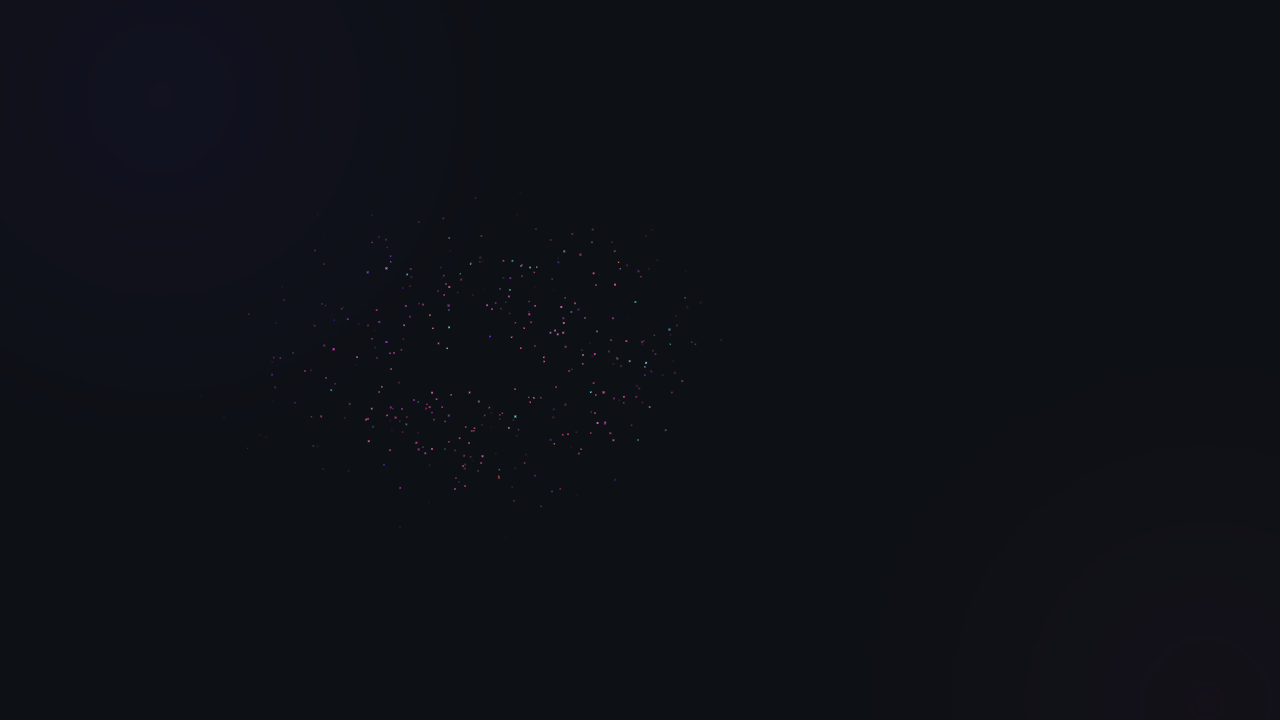
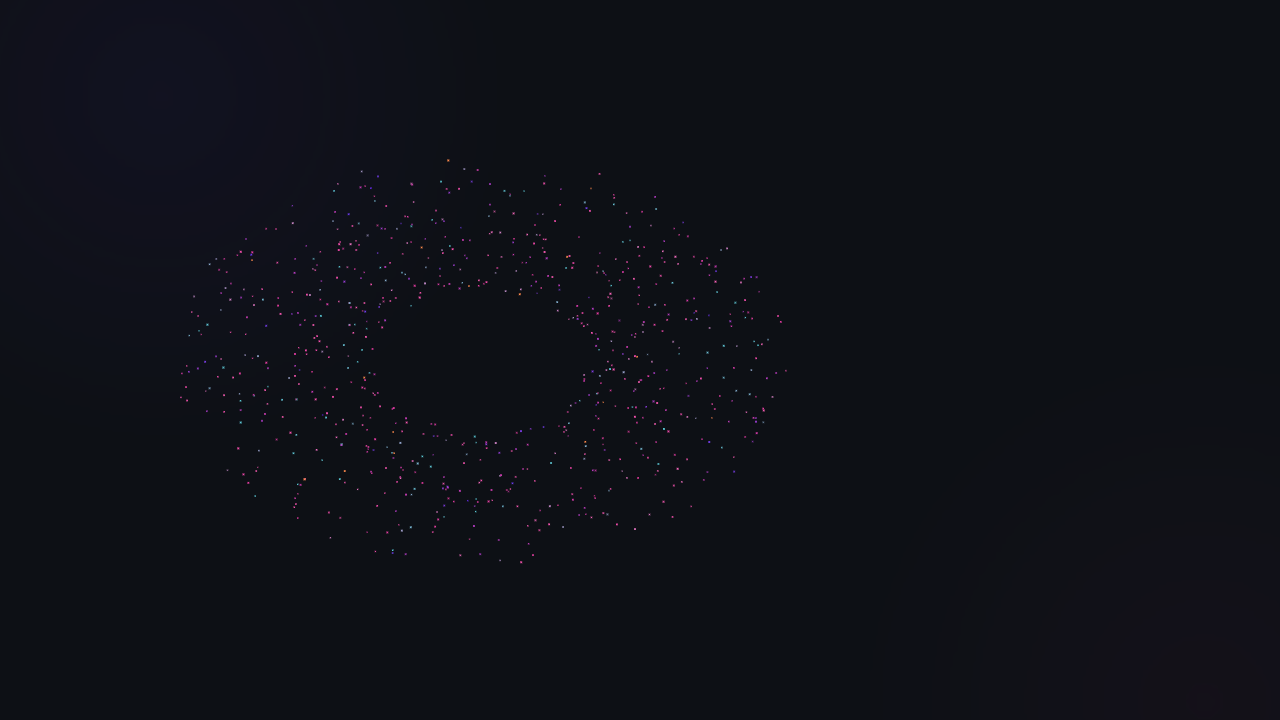
segundo commit

Changed region(s): [[0.4375, 0.4278, 0.4688, 0.4583]]

diff --git a/src/intro.js b/src/intro.js
@@ -8,7 +8,6 @@ import { prefersReducedMotion, EASE } from './motion.js';
 //   5.6-7.2  the logo moves and shrinks (FLIP) to its place on slide 1 while the slide builds itself
 // Only transform and opacity are animated, except the particle canvas.
 
-const SEEN_KEY = 'genlab-intro';
 const NS = 'http://www.w3.org/2000/svg';
 const PENDING = ['intro-active', 'intro-bg', 'intro-stage', 'intro-chrome', 'intro-logo'];
 
@@ -64,13 +63,11 @@ const easeOut = (t) => 1 - Math.pow(1 - t, 2.2); // keeps moving until it lands
 export function createIntro({ onStage, onEnd } = {}) {
   let running = null; // cleanup function while the intro plays
 
-  // Same rule as the early script in index.html: first open in this session, no slide number in the URL.
+  // Same rule as the early script in index.html: it plays every time the page is opened or reloaded,
+  // unless the URL asks for another slide (#2 ... #10) or motion is reduced. Empty hash or #1 plays.
   function shouldPlay() {
-    try {
-      return !location.hash && !sessionStorage.getItem(SEEN_KEY) && !prefersReducedMotion();
-    } catch (e) {
-      return false;
-    }
+    const slide = parseInt(location.hash.slice(1), 10);
+    return (!location.hash || slide === 1) && !prefersReducedMotion();
   }
 
   async function loadAssets(theme) {
@@ -203,9 +200,6 @@ export function createIntro({ onStage, onEnd } = {}) {
   // `delay` (ms) waits before starting, so the slide you came from can finish its exit transition.
   async function play({ delay = 0 } = {}) {
     if (running || prefersReducedMotion()) return;
-    try {
-      sessionStorage.setItem(SEEN_KEY, '1');
-    } catch (e) {}
     setPending(true);
 
     const theme = root.dataset.theme === 'light' ? 'light' : 'dark';

diff --git a/src/config.js b/src/config.js
@@ -1,4 +1,3 @@
 // Public address of the published presentation. The QR code on slides 1 and 10 points here.
-// Leave it empty to hide the QR. The GitHub Pages workflow sets VITE_PRESENTATION_URL automatically,
-// so you only need to write the address here (or export the variable) to build the QR on your own machine.
-export const PRESENTATION_URL = import.meta.env?.VITE_PRESENTATION_URL || '';
+// Make it an empty string to hide the QR. The VITE_PRESENTATION_URL environment variable overrides it.
+export const PRESENTATION_URL = import.meta.env?.VITE_PRESENTATION_URL || 'https://santiagoc1.github.io/GenLab_Presentacion/#1';

diff --git a/src/styles/slides.css b/src/styles/slides.css
@@ -105,7 +105,6 @@
 .qr{display:flex;flex-direction:column;align-items:flex-end;gap:5px;text-align:right}
 .qr img{display:block;width:var(--qr-size);height:auto;border-radius:8px}
 .qr p{margin:0;font-size:12px;line-height:1.3;color:var(--muted)}
-.qr code{font-family:var(--mono);font-size:11px;line-height:1.3;color:var(--muted);word-break:break-all;max-width:calc(var(--qr-size) + 12px)}
 /* bottom right corner of the slide, above the bottom bar (outside .inner so animated parents do not move it) */
 .qr-small,.qr-large{position:absolute;right:max(16px,calc((100% - 1120px) / 2));bottom:72px}
 .qr-small{--qr-size:104px}

diff --git a/index.html b/index.html
@@ -10,7 +10,8 @@
     <script>
       // Opening sequence: hide the deck before the first paint when it is going to play (see src/intro.js).
       try {
-        if (!location.hash && !sessionStorage.getItem('genlab-intro') && !matchMedia('(prefers-reduced-motion: reduce)').matches)
+        var slide = parseInt(location.hash.slice(1), 10);
+        if ((!location.hash || slide === 1) && !matchMedia('(prefers-reduced-motion: reduce)').matches)
           document.documentElement.classList.add('intro-active', 'intro-bg', 'intro-stage', 'intro-chrome', 'intro-logo');
       } catch (e) {}
     </script>

diff --git a/src/content/slides.js b/src/content/slides.js
@@ -5,13 +5,11 @@ import { PRESENTATION_URL } from '../config.js';
 // `html` is the markup inside each <section class="slide">.
 
 // QR code block (slides 1 and 10). Only exists when PRESENTATION_URL is set (src/config.js).
-const shortUrl = PRESENTATION_URL.replace(/^https?:\/\//, '').replace(/\/$/, '');
 const qr = (size) =>
   PRESENTATION_URL
     ? `<div class="qr qr-${size} fade" style="--i:12">
     <img src="brand/qr.svg" alt="Código QR para abrir la presentación en el celular" />
     <p>Abrila en tu celular</p>
-    <code>${shortUrl}</code>
   </div>`
     : '';
 

diff --git a/README.md b/README.md
@@ -2,7 +2,7 @@
 
 Presentación de 10 diapositivas sobre el chatbot de GenLab (módulo adicional 8, M11): qué recibe el endpoint, qué devuelve, qué errores da y cuándo. Hecha con Vite y JavaScript vanilla, sin frameworks. Las fuentes están incluidas en el proyecto, así que funciona sin internet.
 
-Dura unos 18,5 minutos con la demo en vivo. Es de uso interno del equipo para la clase, y no contiene claves ni tokens reales.
+Dura unos 18,5 minutos (más unos 7 segundos de intro) con la demo en vivo. Es de uso interno del equipo para la clase, y no contiene claves ni tokens reales.
 
 ## Índice
 
@@ -139,14 +139,14 @@ Con «reducir movimiento» activado en el sistema, todo aparece de golpe, no hay
 
 ### Animación de entrada
 
-Antes de la diapositiva 1 se reproduce una intro de unos 3,5 segundos: el ícono del logo se arma con partículas, aparece «GEN LAB» letra por letra y el logo se acomoda en su lugar mientras se construye la pantalla de bienvenida. Está en `src/intro.js` (los tiempos están al principio del archivo) y `src/styles/intro.css`.
+Antes de la diapositiva 1 se reproduce una intro de unos 7 segundos: partículas que flotan y se condensan en el ícono del logo, «GEN LAB» que aparece letra por letra, una pausa para leerlo y el logo que se acomoda en su lugar mientras se construye la pantalla de bienvenida. Está en `src/intro.js`, y todos los tiempos son constantes en segundos al principio de ese archivo (objeto `SECONDS`) para ajustarlos.
 
-- Se reproduce solo la primera vez que se abre la presentación en la pestaña (se recuerda con `sessionStorage`). Si recargás o volvés a la diapositiva 1 con las flechas, no se repite.
-- No hay intro si la URL trae un número de diapositiva (`#5`) ni con «reducir movimiento» activado.
-- Para saltarla: clic, `Espacio`, `Enter`, `Esc` o cualquier flecha. `F`, `P` y `T` siguen funcionando. Mientras corre, la navegación está desactivada y el presentador sigue mostrando la diapositiva 1.
-- `I` la reproduce de nuevo (te lleva a la diapositiva 1). Para ensayarla sin cerrar la pestaña.
-- Si el logo no carga, la intro se salta sin mostrar errores.
-- En celular arranca con el logo más chico y la mitad de las partículas.
+- Se reproduce **cada vez** que se abre o se recarga la página sin número de diapositiva o con `#1` (el link que lleva el QR termina en `#1`, así que también se ve desde el celular).
+- Se reproduce de nuevo **cada vez que volvés a la diapositiva 1** (flecha izquierda, `PageUp`, `Inicio` o el primer punto). La diapositiva anterior sale con su transición normal y recién ahí empieza la intro.
+- No hay intro si la URL pide otra diapositiva (`#2` a `#10`) ni con «reducir movimiento» activado. Ojo: muchos celulares tienen «quitar animaciones» activado en accesibilidad, y entonces tampoco se ve.
+- Para saltarla: clic, `Espacio`, `Enter`, `Esc` o cualquier flecha. Queda la diapositiva 1 completa. `F`, `P` y `T` siguen funcionando. Mientras corre, la navegación está desactivada y el presentador ya muestra la diapositiva 1 (el cronómetro no se reinicia).
+- `I` la reproduce de nuevo (útil para ensayar).
+- Si el logo no carga, la intro se salta sin mostrar errores. En celular arranca con el logo más chico y la mitad de las partículas.
 
 ## Exportar a PDF
 
@@ -158,9 +158,33 @@ Genera `genlab-chatbot.pdf` con una diapositiva por página, en 16:9. Usa Playwr
 
 Para revisar cómo se ve a distintos tamaños: `npm run build` y después `node scripts/capture-preview.mjs`. Las capturas quedan en `docs/preview/`.
 
+## Publicar en GitHub Pages
+
+La presentación se publica sola con `.github/workflows/deploy.yml` en cada push a `main` (`npm ci`, `npm run build` y las acciones oficiales de GitHub Pages).
+
+1. Creá el repositorio en GitHub (por ejemplo `GenLab_Presentacion`) y subí el código a la rama `main`. Si tu rama local se llama `master`, renombrala con `git branch -M main`.
+2. En el repositorio: **Settings > Pages > Build and deployment > Source: GitHub Actions**.
+3. Hacé push. En la pestaña **Actions** se ve el despliegue, y el sitio queda en `https://<usuario>.github.io/<repositorio>/`.
+
+El workflow pasa `VITE_BASE=/<repositorio>/` a Vite, porque el sitio vive en una subruta. En local no hace falta: `npm run dev` y `npm run preview` usan `/`. Para probar la subruta en tu máquina (en PowerShell): `$env:VITE_BASE="/GenLab_Presentacion/"; npm run build; npm run preview`. En Git Bash, anteponé `MSYS_NO_PATHCONV=1`, o convierte la ruta en una de Windows.
+
+### El código QR
+
+Las diapositivas 1 y 10 muestran un QR que apunta a `PRESENTATION_URL`, definida en `src/config.js` (hoy `https://santiagoc1.github.io/GenLab_Presentacion/#1`). Para cambiarla, editá esa línea; si la dejás vacía, el QR no se muestra. También se puede sobreescribir con la variable `VITE_PRESENTATION_URL`.
+
+- Se genera solo antes de `npm run dev` y `npm run build` (`scripts/make-qr.mjs`, paquete `qrcode`, sin internet) y queda en `public/brand/qr.svg`, que no se sube a Git. Para regenerarlo a mano: `npm run qr`.
+- Es oscuro sobre fondo claro con margen de 4 módulos, para que se lea desde una pantalla oscura. Corrección de errores nivel M.
+- No se muestra en celulares (hasta 560 px de ancho). También sale en el PDF.
+- Para comprobar que decodifica exactamente la URL: `node scripts/verify-qr.mjs`.
+
+### Antes de publicar: nada de claves reales
+
+El repositorio y el sitio son públicos. No subas claves, tokens ni archivos `.env` (`.gitignore` ya excluye `.env`). Las diapositivas solo llevan los marcadores `sb_publishable_xxx` y `<token del grupo>`. Antes de publicar buscá en el proyecto `sb_publishable_` con valores distintos de `xxx`, `eyJ` (JWT), `token-local` y valores reales de `apikey`. La carpeta `design/` no está en `public/`, así que no se publica en el sitio (sí queda en el repositorio).
+
 ## Checklist del día de la presentación
 
 - [ ] `npm run build` y `npm run preview` funcionando. Probalo sin internet.
+- [ ] Sitio publicado abierto desde un celular: el QR de la pantalla principal lo lleva a la presentación.
 - [ ] Las 6 capturas en `public/screenshots/` y visibles en las diapositivas 6 y 8.
 - [ ] Servidor local del chatbot listo para la demo (`scripts/local-server.ts` del repo del chatbot, con Node 24: `node --experimental-strip-types --no-warnings scripts/local-server.ts`).
 - [ ] `chatbot.http` con las variables completas en tu copia local, sin subirlas a Git.
@@ -184,11 +208,13 @@ Para revisar cómo se ve a distintos tamaños: `npm run build` y después `node 
 
 ```
 index.html / presenter.html   las dos páginas
+.github/workflows/deploy.yml  publicación en GitHub Pages
 public/
   screenshots/                capturas de los casos (200, 401, 422, 429, 503, health)
   brand/                      logos y favicon
 src/
   main.js                     arranca la presentación
+  config.js                   PRESENTATION_URL (dirección del QR)
   deck.js                     navegación, transiciones, hash, progreso, puntos y sincronización
   intro.js                    animación de entrada (partículas, logo, FLIP)
   motion.js                   detección de «reducir movimiento» y contadores
@@ -201,5 +227,7 @@ scripts/
   export-pdf.mjs              exporta a PDF
   capture-preview.mjs         capturas de revisión en docs/preview/
   capture-intro.mjs           cuadros de la intro en docs/preview/intro/
+  make-qr.mjs                 genera public/brand/qr.svg
+  verify-qr.mjs               comprueba que el QR devuelve la URL
   check-contrast.mjs          tabla de contraste WCAG de los dos temas
 ```
